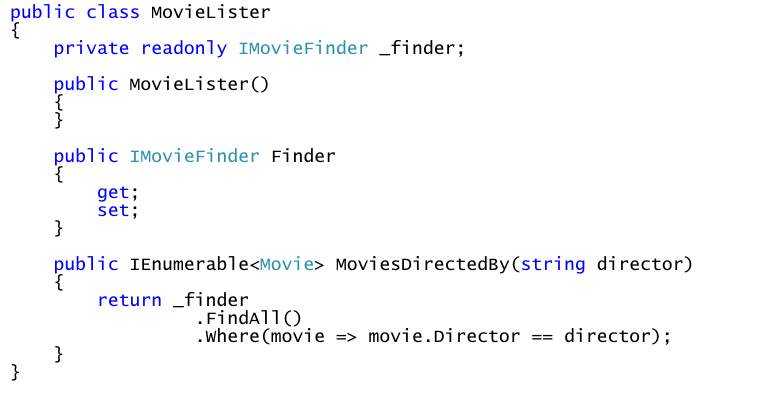
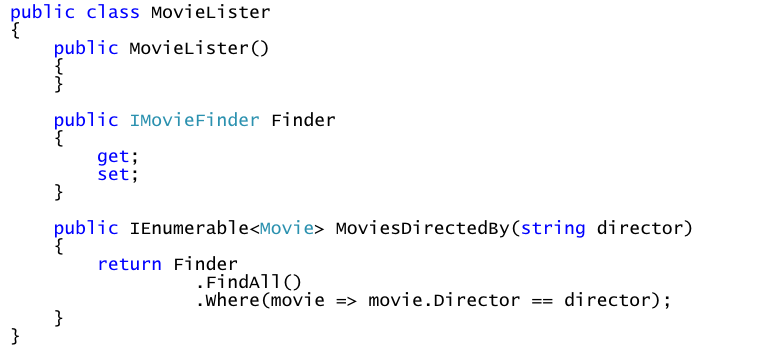
fix bug in sample code

diff --git a/dependencies/src/PropertyInjection.cs b/dependencies/src/PropertyInjection.cs
@@ -1,7 +1,5 @@
 public class MovieLister
 {
-    private readonly IMovieFinder _finder;
-
     public MovieLister()
     {
     }
@@ -14,7 +12,7 @@ public class MovieLister
 
     public IEnumerable<Movie> MoviesDirectedBy(string director)
     {
-        return _finder
+        return Finder
                  .FindAll()
                  .Where(movie => movie.Director == director);
     }
